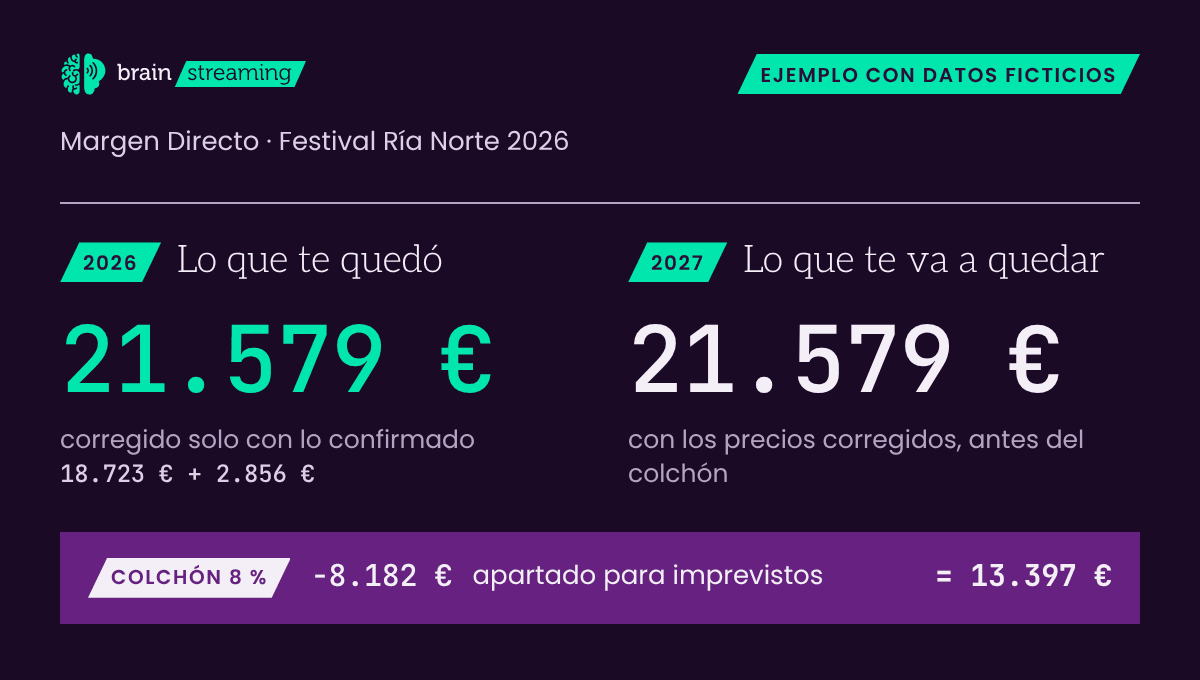
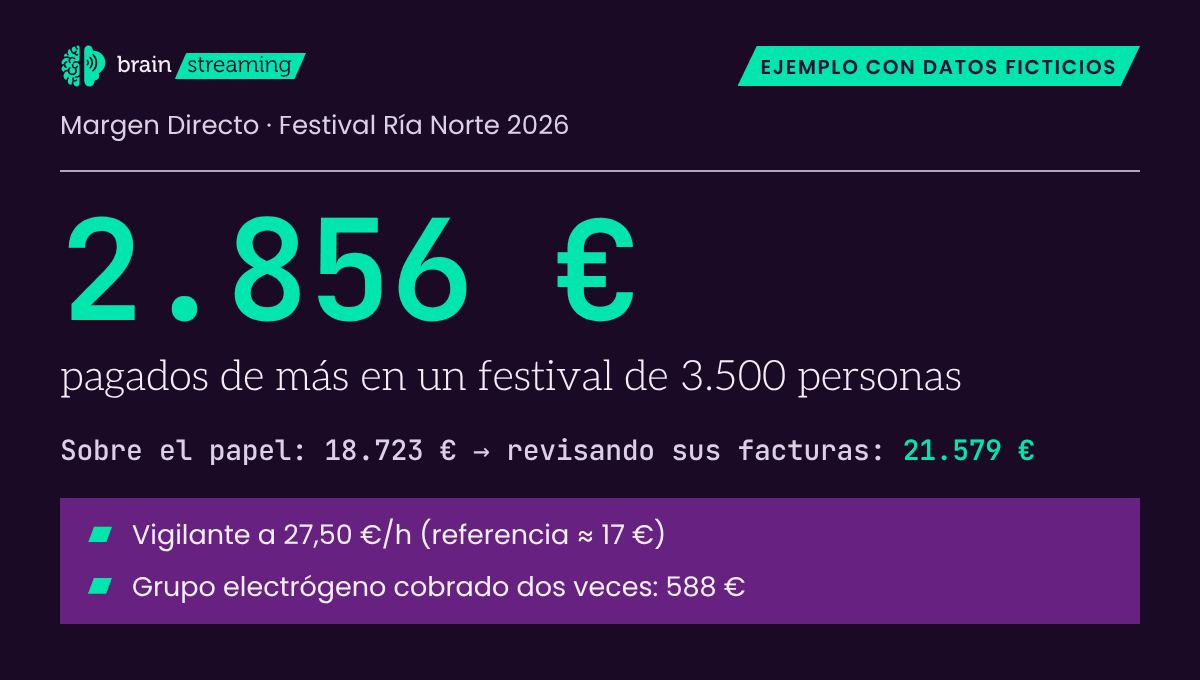
demo/arte ronda 3: captura de correo con los 2.856 € de protagonista, trayecto 18.723 → 21.579 € y dos pruebas; ALT actualizado
Claude-Session: https://claude.ai/code/session_016qsSdqWsFUotGTv2Zgjxfx

diff --git a/demo/arte/correo/correo.css b/demo/arte/correo/correo.css
@@ -1,23 +1,25 @@
 *{box-sizing:border-box}
 html,body{margin:0;background:var(--d-fondo)}
 body{width:600px;font:400 15px/1.45 var(--d-f-texto);color:var(--d-texto)}
-p{margin:0}
+p,ul{margin:0;padding:0;list-style:none}
 .cifra{font-family:var(--d-f-cifra);font-variant-numeric:tabular-nums;font-weight:500;letter-spacing:-.01em}
 .e{display:inline-block;font:600 10px/1 var(--d-f-texto);letter-spacing:.08em;text-transform:uppercase;padding:.55em 1.15em .45em;
   clip-path:polygon(var(--d-corte) 0,100% 0,calc(100% - var(--d-corte)) 100%,0 100%);white-space:nowrap;vertical-align:middle}
 .e-verde{background:var(--d-acento);color:var(--d-acento-texto)}
-.e-papel{background:var(--d-texto);color:var(--d-morado)}
-.pieza{padding:26px 30px 28px}
+.pieza{padding:22px 30px 22px;height:340px;overflow:hidden}
 .cab{display:flex;justify-content:space-between;align-items:center}
 .cab img{height:22px;width:auto;display:block}
-.proy{margin-top:14px;color:var(--d-texto-2);font-size:13px}
-.dos{display:grid;grid-template-columns:1fr 1fr;gap:28px;margin-top:20px;padding-top:18px;border-top:1px solid var(--d-regla)}
-.lab{font:300 19px/1.2 var(--d-f-titular);display:flex;align-items:center;gap:8px}
-.grande{font-size:46px;line-height:1;margin:14px 0 8px}
+.proy{margin-top:10px;color:var(--d-texto-2);font-size:13px}
+/* 1 · Protagonista: lo pagado de más */
+.heroe{margin-top:12px;padding-top:14px;border-top:1px solid var(--d-regla)}
+.grande{font-size:70px;line-height:1;font-weight:600}
 .verde{color:var(--d-acento)}
-.sub{color:var(--d-apagado);font-size:12.5px;line-height:1.4}
-.sub .cifra{color:var(--d-texto-2);font-size:12px}
-.colchon{margin-top:20px;background:var(--d-morado);padding:12px 14px;display:flex;align-items:center;gap:10px;font-size:13px;color:var(--d-texto)}
-.colchon .cifra{font-size:15px}
-.colchon .flecha{flex:1}
-.colchon .fin{font-weight:700}
+.lema{font:300 21px/1.2 var(--d-f-titular);margin-top:6px}
+/* 2 · El trayecto, en cifras */
+.trayecto{margin-top:14px;font-size:14px;color:var(--d-texto-2)}
+.trayecto b{color:var(--d-acento);font-weight:600}
+/* 3 · Dos pruebas, en bloque morado */
+.pruebas{margin-top:14px;background:var(--d-morado);padding:9px 14px;display:grid;gap:6px}
+.pruebas li{font-size:13.5px;color:var(--d-texto);display:flex;gap:10px;align-items:baseline}
+.pruebas li::before{content:"";flex:none;width:12px;height:8px;background:var(--d-acento);
+  clip-path:polygon(3px 0,100% 0,calc(100% - 3px) 100%,0 100%);transform:translateY(-1px)}

diff --git a/demo/arte/correo/correo.html b/demo/arte/correo/correo.html
@@ -4,32 +4,28 @@
 <meta charset="utf-8">
 <meta name="viewport" content="width=600">
 <meta http-equiv="Content-Security-Policy" content="default-src 'none'; script-src 'self'; style-src 'self'; font-src 'self'; img-src 'self'; base-uri 'none'; form-action 'none'">
-<title>Captura para correo · vista 3</title>
+<title>Captura para correo</title>
 <link rel="stylesheet" href="../tokens.css">
 <link rel="stylesheet" href="correo.css">
 <script type="module" src="correo.js"></script>
 </head>
 <body>
-<!-- Fuente de la imagen captura-correo-1200.png (600 px de diseño × 2). Todo el texto es HTML; la imagen se exporta con Playwright. -->
+<!-- Fuente de la imagen captura-correo-1200.png (600 px de diseño × 2). Cifras: correo.js con ref/ (demo-publica 609f1c3). -->
 <div class="pieza">
   <div class="cab">
     <img src="../logotipo/bs-logo-horizontal-fondo-oscuro.svg" alt="" width="140" height="25">
     <span class="e e-verde">Ejemplo con datos ficticios</span>
   </div>
-  <p class="proy">Margen Directo · Festival Ría Norte 2026</p>
-  <div class="dos">
-    <div class="col">
-      <p class="lab"><span class="e e-verde">2026</span> Lo que te quedó</p>
-      <p class="cifra grande verde" data-f="queda"></p>
-      <p class="sub">corregido solo con lo confirmado<br><span class="cifra"><span data-f="base"></span> + <span data-f="conf"></span></span></p>
-    </div>
-    <div class="col">
-      <p class="lab"><span class="e e-verde">2027</span> Lo que te va a quedar</p>
-      <p class="cifra grande" data-f="antes"></p>
-      <p class="sub">con los precios corregidos, antes del colchón</p>
-    </div>
+  <p class="proy">Margen Directo · <span data-f="proyecto"></span></p>
+  <div class="heroe">
+    <p class="cifra grande verde" data-f="conf"></p>
+    <p class="lema">pagados de más en un festival de <span data-f="aforo"></span> personas</p>
   </div>
-  <p class="colchon"><span class="e e-papel">Colchón <span data-f="pct"></span></span> <span class="cifra" data-f="colchon"></span> <span class="flecha">apartado para imprevistos</span> <span class="cifra fin" data-f="despues"></span></p>
+  <p class="cifra trayecto">Sobre el papel: <span data-f="base"></span> → revisando sus facturas: <b data-f="queda"></b></p>
+  <ul class="pruebas">
+    <li data-f="prueba1"></li>
+    <li data-f="prueba2"></li>
+  </ul>
 </div>
 </body>
 </html>

diff --git a/demo/arte/correo/correo.js b/demo/arte/correo/correo.js
@@ -1,11 +1,20 @@
 // Cifras de la captura de correo: mismo cálculo que la demo (ref/ = copia de demo-publica 609f1c3), estado inicial del ejemplo.
+// Ningún número escrito a mano: todo sale de data.js y logica.js.
 import data from '../ref/data.js';
 import * as L from '../ref/logica.js';
-const e = L.estadosIniciales(data), c = L.cierre(data, e), p = L.plan(data, e, data.plan.colchon_pct);
+const e = L.estadosIniciales(data), c = L.cierre(data, e);
+const av = id => data.avisos.find(a => a.id === id);
+const vig = av('A01'), dup = av('A02');                         // los dos avisos confirmados que forman los 2.856 €
+if (e.A01 !== 'confirmado' || e.A02 !== 'confirmado' || L.c(vig.eur) + L.c(dup.eur) !== c.confirmado) throw new Error('las pruebas no suman lo confirmado');
+const linea = data.lineas_compra.find(l => l.id === dup.linea);
 const v = {
-  queda: L.fmt(c.corregido), base: L.fmt(c.resultado), conf: L.fmt(c.confirmado),
-  antes: L.fmt(Math.round((p.ingresos - p.costes) / 100) * 100), pct: data.plan.colchon_pct + ' %',
-  colchon: L.fmt(-Math.round(p.colchon / 100) * 100), despues: '= ' + L.fmt(p.resultado),
+  proyecto: data.proyecto.nombre,
+  conf: L.fmt(c.confirmado),
+  aforo: data.proyecto.aforo.toLocaleString('es-ES', { useGrouping: 'always' }),
+  base: L.fmt(c.resultado),
+  queda: L.fmt(c.corregido),
+  prueba1: `Vigilante a ${vig.pagado} (referencia ${vig.referencia_aprox.replace(/\/[^ ]+$/, '')})`,
+  prueba2: `${linea.descripcion.replace(/ \d.*$/, '')} cobrado dos veces: ${L.fmt(L.c(dup.eur))}`,
 };
 for (const [k, t] of Object.entries(v)) document.querySelectorAll(`[data-f="${k}"]`).forEach(n => { n.textContent = t; });
 document.documentElement.dataset.listo = '1';
